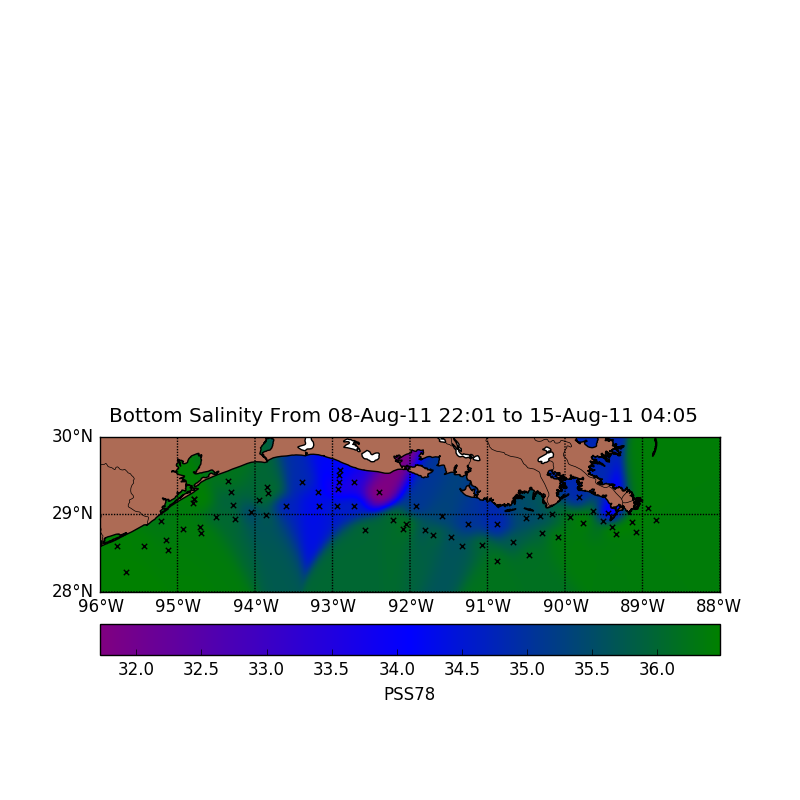
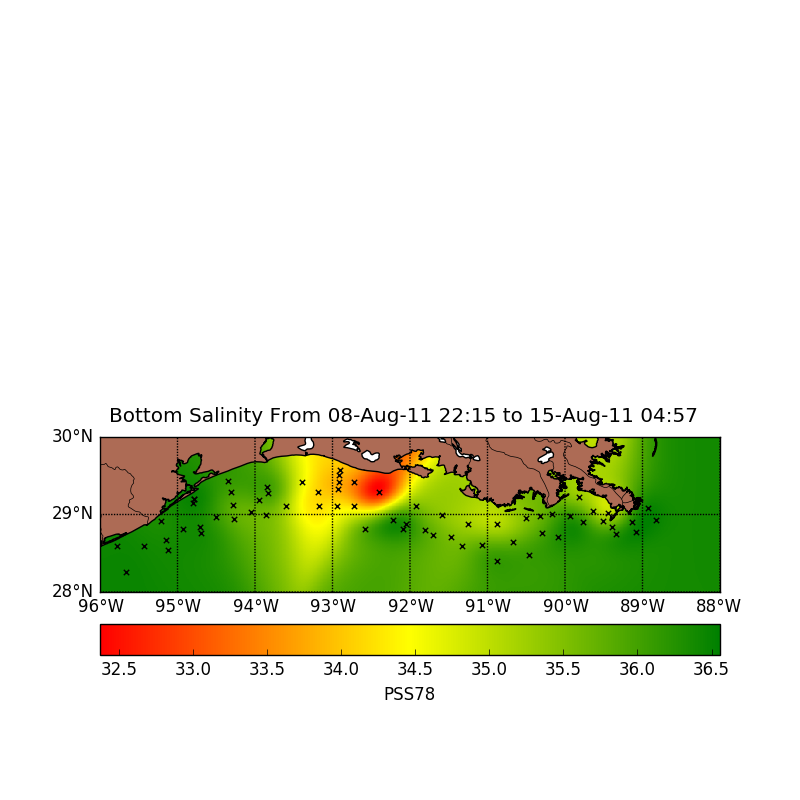
Started on Kriging
Initial work done on kriging analysis, more to come.

diff --git a/analysis.py b/analysis.py
@@ -1,5 +1,6 @@
 import numpy as np
 import time, operator, math
+from numpy.linalg import inv
 
 #returns a list of AT MOST N stations within the range of max_range, if
 #it cannot find 20 points it returns as many as it can.
@@ -28,6 +29,9 @@ def mean(points, attr):
 		for point in points: sss += point[0].getAttr(attr)
 
 	return sss / len(points)
+
+def exponential(distance, alpha):
+	return math.exp(-(distance**2)/alpha)
 
 #runs a Barnes Analysis on a given grid; alpha controls radius of influence
 #that a station has, gamma controls smoothness of the interpolation.
@@ -94,4 +98,43 @@ def Barnes(points, stations, attr, alpha, gamma, N=20, dev_view=False):
 		print "In total the analysis took:",(end_time - start_time)
 
 	return g_final
+
+
+def Kriging(points, stations, attr, weight_func, alpha, N=20):
+	print "Starting Kriging Interpolation"
+	shape = len(points), len(points[0])
+	alpha = 5.052*(((2*alpha)/math.pi)**2)
+	runs  = 0.
+
+	final = np.zeros(shape, dtype = np.float)
+
+	#go through all the points
+	for j in range(shape[0]):
+		for i in range(shape[1]):
+			#at each point we'll have N estimators, so an NxN covariance matrix and
+			#a 1xN weight matrix for obtaining or final weight matrix
+			estimators = findNClosest(points[j][i], stations, N, alpha)
+			mmm        = mean(estimators, attr)
+			cov_mat    = np.zeros((len(estimators),len(estimators)), dtype = np.float)
+			weights    = np.zeros(len(estimators), dtype = np.float)
+			values     = np.zeros(len(estimators), dtype = np.float)
+
+			#set up our covariance matrix and our weight matrix at the same time
+			for ii in range(len(estimators)):
+				weights[ii] = weight_func(estimators[ii][1], alpha)
+				values[ii]  = estimators[ii][0].getAttr(attr)
+				for jj in range(len(estimators)):
+					cov_mat[jj][ii] = weight_func(estimators[ii][0].distance(estimators[jj][0]), alpha)
+
+			cov_inv = inv(cov_mat)
+			weights = np.dot(cov_inv, weights)
+
+			final[j][i] = mmm + np.dot(weights, values)
+
+			runs += 1.
+			print str(runs/(shape[0]*shape[1])*100.),"percent complete"
+
+
+
+	return final
 

diff --git a/main.py b/main.py
@@ -136,7 +136,7 @@ def BarnesMapTXT(filedir, dn, attr, depth, alpha, gamma, show=True, save_name=No
 			row.append(new_point)
 		points.append(row)
 
-	values    = np.asarray(analysis.Barnes(points, stations, attr, alpha, gamma, dev_view=True)) #run the analysis and convert the output to a numpy array.
+	values    = np.asarray(analysis.Barnes(points, stations, attr, alpha, gamma)) #run the analysis and convert the output to a numpy array.
 
 	print "Mean of Stations:", analysis.mean(stations, attr)
 	print "Mean of Interped:", np.mean(values)
@@ -149,11 +149,11 @@ def BarnesMapTXT(filedir, dn, attr, depth, alpha, gamma, show=True, save_name=No
 if __name__ == "__main__":
 
 	filedir = "TXTs\\MS04\\"
-	BarnesMapTXT(filedir, .01, "Salinity", 2.0, 15, .6 ,show=False,
+	BarnesMapTXT(filedir, .01, "Salinity", 2.0, 30, .6 ,show=False,
 				save_name = "Plots\\MS04 Surface Salinity Interpolation.png",
 				title    = "Surface Salinity From ", cbar_label = "PSS78")
 
-	BarnesMapTXT(filedir, .01, "Salinity", 2.0, 15, .6 ,show=False,
+	BarnesMapTXT(filedir, .01, "Salinity", 2.0, 30, .6 ,show=False,
 				save_name = "Plots\\MS04 Bottom Salinity Interpolation.png",
 				title    = "Bottom Salinity From ", cbar_label = "PSS78", bottom_only = True)
 

diff --git a/Mapper.py b/Mapper.py
@@ -46,7 +46,7 @@ def multiPlot(data_list, titles, pdf_name):
 #used in tangent with the BarnesMap function in main, station_locs need only be specified if
 #you want a marker placed where the interpolated data is calculated from.
 def objectiveMap(bounds, x, y, values, station_locs=[], title='', cbar_label='', show=True, save_name=None):
-	gradient = ['purple','blue','green']
+	gradient = ['red','yellow','green']
 	cmap     = mpl.colors.LinearSegmentedColormap.from_list('my_colormap', gradient, 256)
 
 	fig = pyplot.figure(figsize=(8,8))
